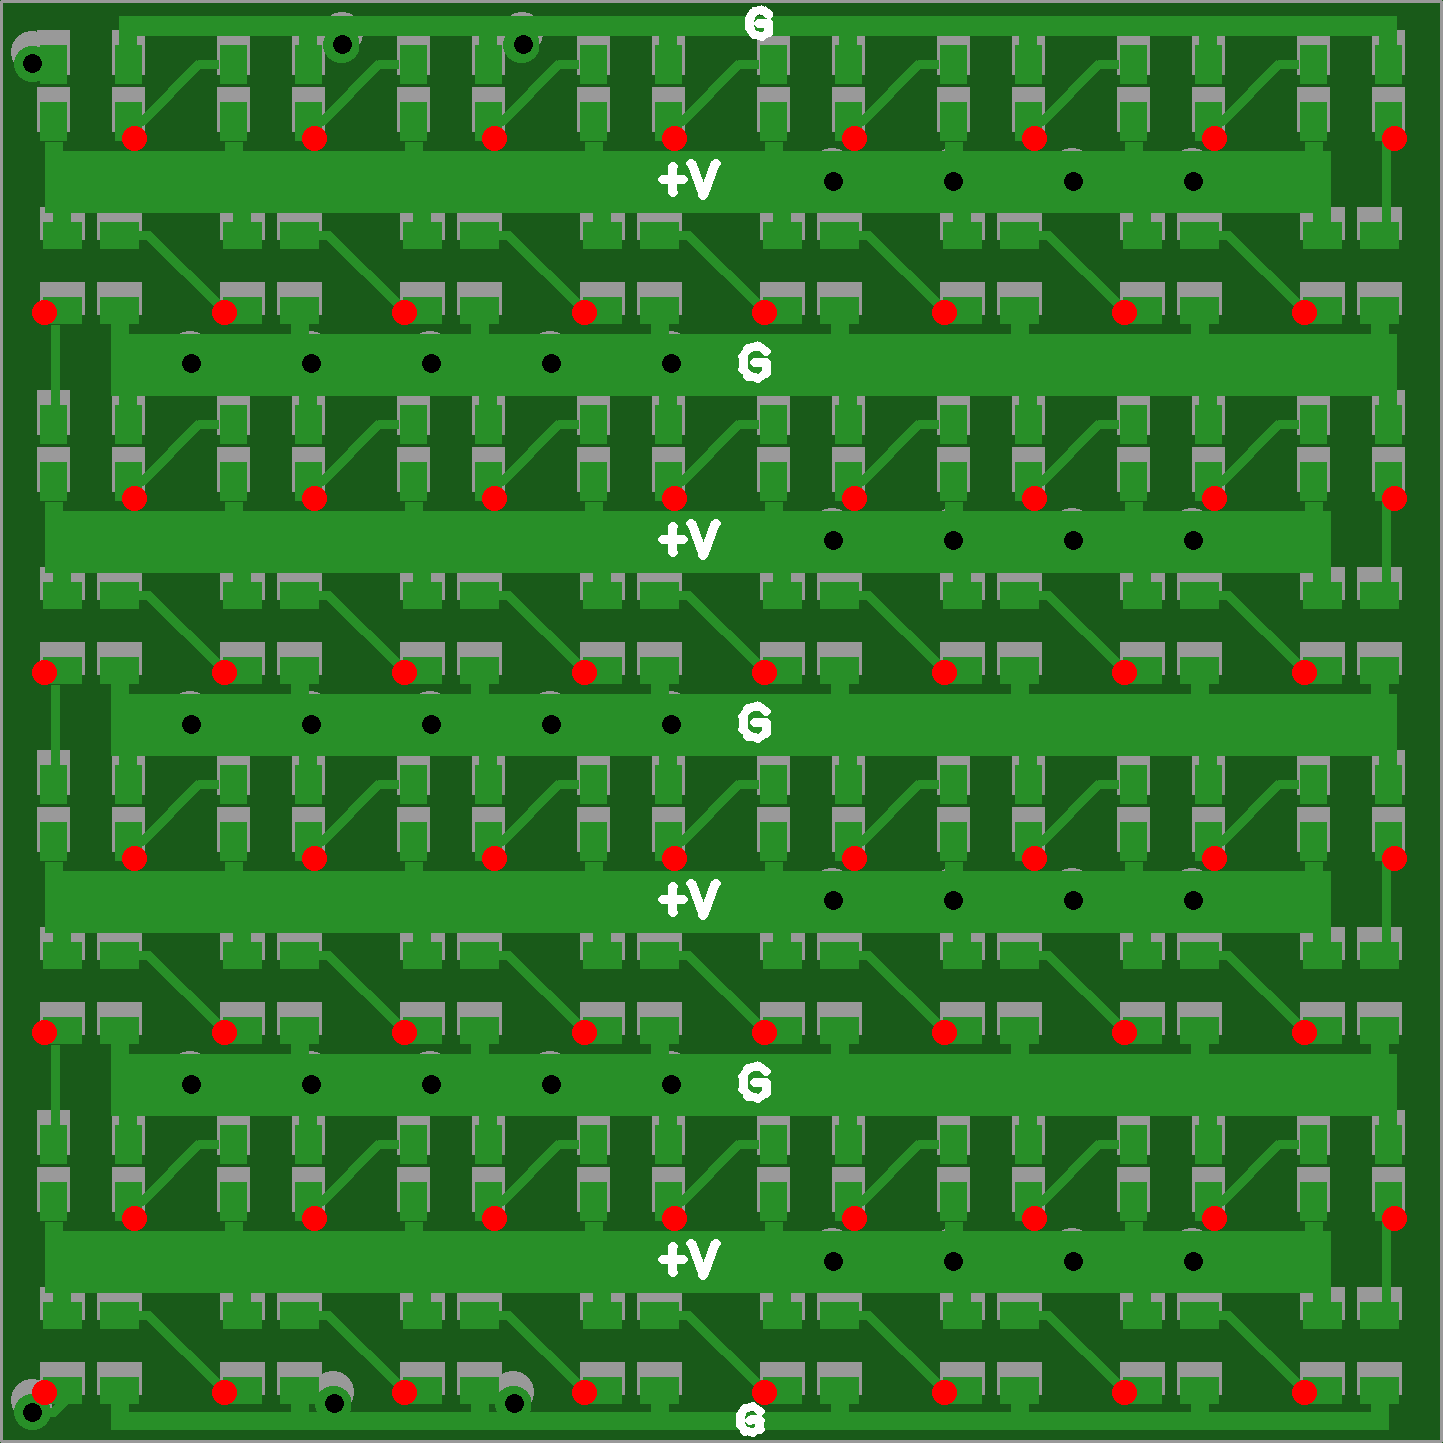
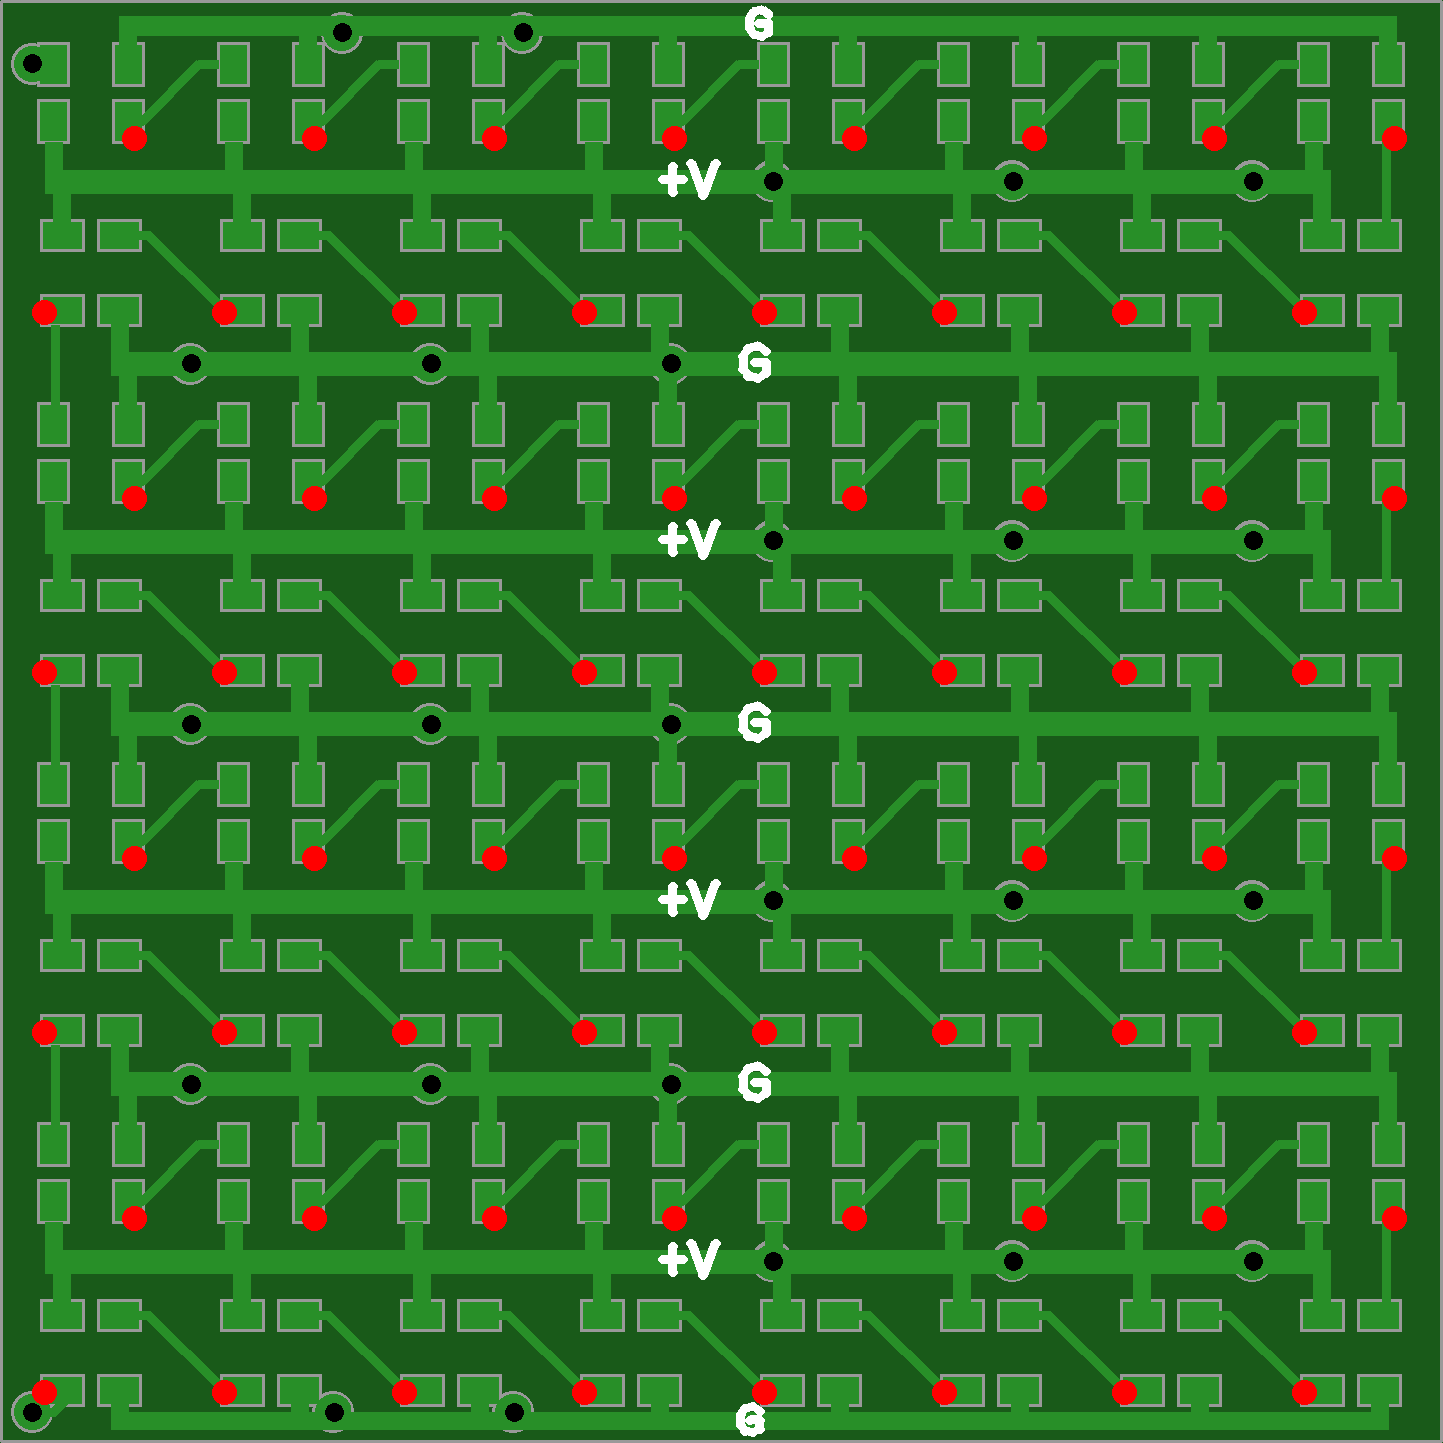
Randzonen-Schienen: ampazitaetsbasiert statt Zonen-Vollbreite (p5 war 1.3mm zu breit), Rand-Vias auf Schienenmitte mit Randabstand-Clamp; README Bestückungshinweis Entkopplung; docs example v14

diff --git a/src/power_grid.py b/src/power_grid.py
@@ -171,15 +171,18 @@ def compute_power_grid(leds, fp, W: float, H: float, pitch: float,
             raise RuntimeError(f"Randzone-Netz nicht eindeutig: {nets}")
         net = "VCC" if nets == {"VDD"} else "GND"
         pw = [(x, e) for s, x, e, w, h in pads if s in ("VDD", "GND")]
-        # Dynamische Breite: Platz zwischen Pad-Kante (+Clearance) und
-        # Boardrand (-EDGE_CLEAR). Bei p3 ergibt das exakt die bisherigen
-        # 0.3mm, bei groesserem Pitch breitere Randzonen-Schienen.
+        # Breite wie Innen-Schienen: ampazitaetsbasiert (2x Sicherheit),
+        # Minimum RAIL_TOP_W, Obergrenze = Randzonenbreite - 2x Clearance.
+        # frueher: volle Zonenbreite -> bei p5 viel zu breite G/VCC-Bahn.
         if up:   # ueber der Reihe
-            w_edge = (H - DR.EDGE_CLEAR) - (max(e for _, e in pw) + DR.CLEARANCE)
-            y = max(e for _, e in pw) + DR.CLEARANCE + w_edge / 2
+            zone = (H - DR.EDGE_CLEAR) - (max(e for _, e in pw)
+                                          + DR.CLEARANCE)
+            w_edge = min(zone, max(RAIL_TOP_W, _rail_w_for_amp(2 * i_row)))
+            y = max(e for _, e in pw) + DR.CLEARANCE + zone / 2
         else:
-            w_edge = (min(e for _, e in pw) - DR.CLEARANCE) - DR.EDGE_CLEAR
-            y = min(e for _, e in pw) - DR.CLEARANCE - w_edge / 2
+            zone = (min(e for _, e in pw) - DR.CLEARANCE) - DR.EDGE_CLEAR
+            w_edge = min(zone, max(RAIL_TOP_W, _rail_w_for_amp(2 * i_row)))
+            y = min(e for _, e in pw) - DR.CLEARANCE - zone / 2
         # Abschluss buendig mit der aeussersten Stichleitung
         rails_top.append({"net": net, "y": y,
                           "x0": min(x for x, _ in pw) - STUB_W / 2,
@@ -203,21 +206,23 @@ def compute_power_grid(leds, fp, W: float, H: float, pitch: float,
         if hi <= lo:
             continue
         if rail.get("edge"):
-            # Randzonen: Vias neben Power-Pads (bewaehrte Position: Pad-
-            # Rand + 0.25, auf Padkanten-Hoehe -> kein Konflikt mit
-            # Boardrand/Datenkette). Auswahl links/mitte/rechts ueber die
-            # dafuer in Frage kommenden Pads der Randreihe.
+            # Randzonen: Vias neben Power-Pads (x: bewaehrte Pad-Neben-
+            # Position, symmetrisch links/mitte/rechts ueber die Reihe).
+            # y: auf Schienenmitte, aber mind. Randabstand + Via-Radius
+            # vom Boardrand -> Via beruehrt immer die Schiene.
             pad_off = 0.225 + 0.3 + 0.025
-            cands = sorted((x + pad_off, e) for (x, e) in rail["stubs"]
-                           if lo <= x + pad_off <= hi)
+            vy = min(max(rail["y"], DR.EDGE_CLEAR + DR.VIA_PAD_D / 2),
+                     H - DR.EDGE_CLEAR - DR.VIA_PAD_D / 2)
+            cands = sorted((x + pad_off for (x, e) in rail["stubs"]
+                            if lo <= x + pad_off <= hi))
             if not cands:
                 continue
             k = min(n_via, len(cands))
             idx = sorted({round(i * (len(cands) - 1) / (k - 1)) if k > 1
                           else (len(cands) - 1) // 2 for i in range(k)})
             for j in idx:
-                x, e = cands[j]
-                stitch_vias.append((x, e, rail["net"], DR.VIA_PAD_D))
+                stitch_vias.append((cands[j], vy, rail["net"],
+                                    DR.VIA_PAD_D))
             continue
         for i in range(n_via):
             x = lo + i * (hi - lo) / (n_via - 1)

diff --git a/docs/example_8x8/README.md b/docs/example_8x8/README.md
@@ -13,7 +13,7 @@ WS2812B-kompatibel). Ergebnis: **24 × 24 mm** Platinen, nahtlos kachelbar.
 ```bash
 python src/fetch_component.py C41413180        # Footprint laden (einmalig)
 python src/generate.py --cols 8 --rows 8 --pitch 3.0 --lcsc C41413180 \
-    --output output/XL-1615_8x8_v13.zip
+    --output output/XL-1615_8x8_v14.zip
 ```
 
 oder mit dieser Config: [`cfg/XL-1615_8x8.cfg`](../../cfg/XL-1615_8x8.cfg)
@@ -23,7 +23,7 @@ oder mit dieser Config: [`cfg/XL-1615_8x8.cfg`](../../cfg/XL-1615_8x8.cfg)
 | Prüfung | Kommando | Ergebnis |
 |---|---|---|
 | Machbarkeit | `python src/feasibility.py C41413180 8 8` | ✅ Pitch 3.0 = Minimum (gerade Zeilenzahl) |
-| Geometrie-DRC | `python src/drc_geometry.py 3.0 8 8` | ✅ 593 Kupferobjekte, 37 Bohrungen, 67 Netze, 0 Verstöße |
+| Geometrie-DRC | `python src/drc_geometry.py 3.0 8 8` | ✅ 573 Kupferobjekte, 27 Bohrungen, 67 Netze, 0 Verstöße |
 | Netz-Zusammenhang | `python tools/check_connectivity.py` | ✅ GND/VCC/Datenkette durchgängig |
 | Masken | ZIP-Parse GTS/GBS | ✅ alle Via-Bohrungen beidseitig offen |
 | Footprint | LCSC-API + Datenblatt | ✅ Pads 0.45×0.65 mm, 1.70×1.60 mm Kupfer |
@@ -32,11 +32,17 @@ oder mit dieser Config: [`cfg/XL-1615_8x8.cfg`](../../cfg/XL-1615_8x8.cfg)
 
 | Datei | Beschreibung |
 |---|---|
-| [`XL-1615_8x8_v13.zip`](XL-1615_8x8_v13.zip) | Fertigungsdaten (Gerber + Drill + BOM + CPL), direkt bei JLCPCB hochladbar |
+| [`XL-1615_8x8_v14.zip`](XL-1615_8x8_v14.zip) | Fertigungsdaten (Gerber + Drill + BOM + CPL), direkt bei JLCPCB hochladbar |
 | [`render_front.png`](render_front.png) | Eigener PNG-Render, Vorderseite (LED-Pads, Datenkette, Reihenschienen) |
 | [`render_back.png`](render_back.png) | Eigener PNG-Render, Rückseite (mittige GND/VCC-Rails, Anschlusspads, Beschriftung) |
 | [`jlcpcb_preview_top.png`](jlcpcb_preview_top.png) | 2D-Preview aus dem JLCPCB-Viewer, Oberseite |
 | [`jlcpcb_preview_bottom.png`](jlcpcb_preview_bottom.png) | 2D-Preview aus dem JLCPCB-Viewer, Unterseite |
+
+> [!NOTE]
+> Die JLCPCB-Viewer-Bilder stammen noch von Revision v13 (damals volle
+> Schienenbreite, andere Rand-Via-Position). Der ZIP und die eigenen Renders
+> zeigen die aktuelle Revision v14 (strombasierte Schienen, Strom-basierte
+> Stitch-Vias).
 
 ## Was man sieht
 

diff --git a/README.md b/README.md
@@ -96,7 +96,24 @@ Schiene versorgt; die Schienen enden bündig mit der letzten Stichleitung.
 | Clearance Leitung↔Leitung | 0.15 mm je Seite |
 | Randabstand Kupfer | 0.20 mm (randbündige Anschlusspads: bewusst ausgenommen) |
 | Datenleitung | 0.15 mm |
-| Schienen F.Cu / B.Cu | dynamisch max.: Lückenbreite − 2×Clearance bzw. Boardbreite − GAP − Anschlusspads; Minima 0.4 mm / 2.5 mm sonst Abbruch |
+| Schienen F.Cu | strombasiert: Breite für 2× Reihenstrom (IPC-2221, 1 oz, ΔT 10 °C), Minimum 0.4 mm; Randzonen-Schienen gleiche Regel, begrenzt durch die Randzone |
+| Schienen B.Cu | dynamisch max.: Boardbreite − GAP − Anschlusspads; Minimum 2.5 mm sonst Abbruch |
+| Stitch-Vias | Basis 3 (links/mitte/rechts), bei `led_current_ma` > Standard 5/7/9… symmetrisch, immer 2× Sicherheit gegen 0.3 A/Via |
+
+## Bestückungshinweis: Entkopplung
+
+**Keine Keramikkondensatoren je LED.** Die LED-Pads hängen über ~1 mm Kupfer-Stubs
+direkt an den Stromschienen (mΩ-Bereich, wenige nH) – die lokale Ladungsquelle ist
+das Kupfer selbst. Ein 0201-C könnte diese Aufgabe nicht besser erfüllen; die
+übliche „100 nF je LED"-Empfehlung gilt für Streifen mit dünnen Leitungen und
+Adern, nicht für diese Topologie.
+
+**Aber: Bulk-Kondensator am Stromeingang.** Bei Versorgung über Kabel
+(1 m Adern ≈ 1 µH) erzeugt der Gesamtstrom Lastspitzen über L·di/dt.
+Empfehlung: **220–470 µF Elektrolyt/Tantal direkt über den VCC/GND-
+Anschlusspads** (5×5 mm, direkt daneben platzierbar oder an der Zuleitung).
+Das ist der einzige WS2812-Datasheet-Punkt, der für dieses Board relevant ist
+(Heißanschließen, lange Zuleitungen).
 
 ## Prüfwerkzeuge
 
